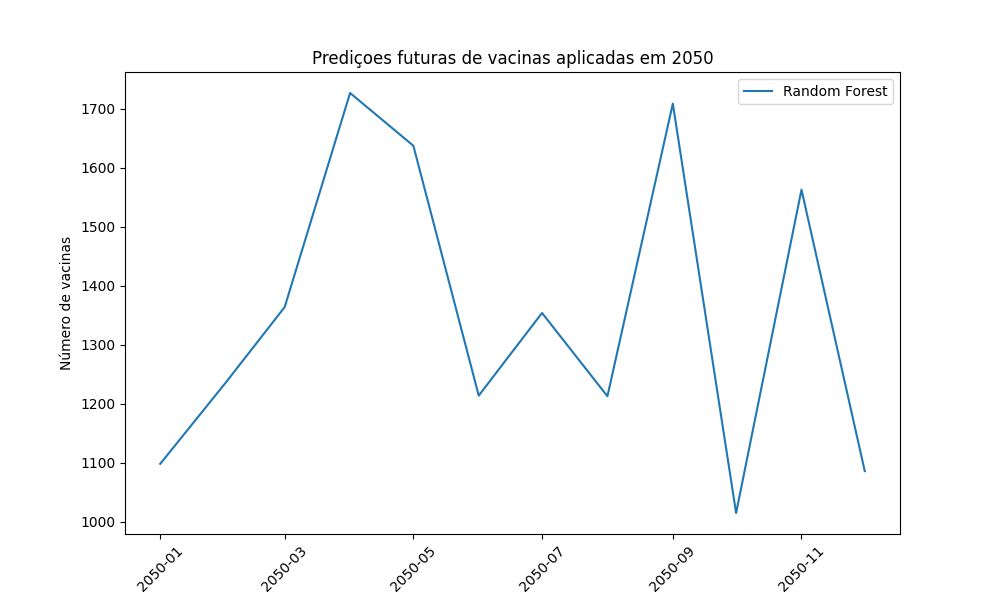
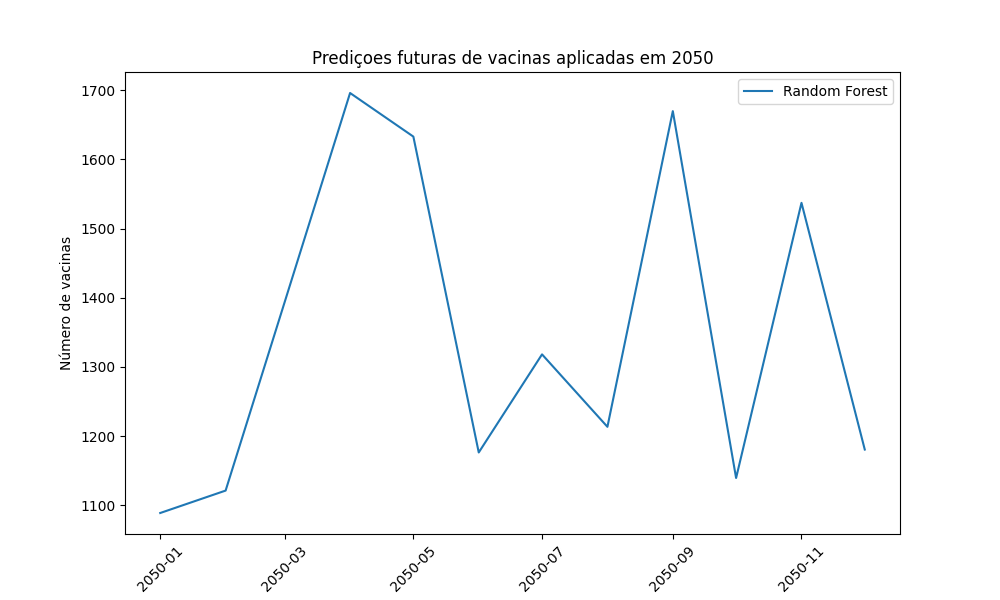
deactivated gridsearchCV

diff --git a/predicao/views.py b/predicao/views.py
@@ -9,7 +9,8 @@ from .forms import ForquilhinhaPassadoForm, ForquilhinhaFuturoForm
 from sklearn.ensemble import RandomForestRegressor
 from sklearn.model_selection import train_test_split, GridSearchCV
 from sklearn.preprocessing import StandardScaler
-import logging
+
+"""import logging
 
 logger = logging.getLogger(__name__)
 logger.setLevel(logging.DEBUG)
@@ -17,7 +18,7 @@ handler = logging.FileHandler(os.path.join(settings.BASE_DIR, 'suslog_project/lo
 handler.setLevel(logging.DEBUG)
 formatter = logging.Formatter('%(asctime)s - %(name)s - %(levelname)s - %(message)s')
 handler.setFormatter(formatter)
-logger.addHandler(handler)
+logger.addHandler(handler)"""
 
 matplotlib.use('Agg')
 
@@ -43,7 +44,7 @@ X_train, X_test, y_train, y_test = train_test_split(X_scaled, y, test_size=0.2, 
 rf = RandomForestRegressor(random_state=42)
 
 # Usando GridSearchCV para testar os melhores parâmetros automaticamente
-param_grid = {
+"""param_grid = {
     'n_estimators': [100, 500, 1000],
     'max_depth': [10, 30, 50],
     'max_features': ['sqrt', 10],
@@ -63,7 +64,9 @@ except Exception as e:
 
 # Treinando RF com os melhores parametros
 best_rf = grid_search.best_estimator_
-best_rf.fit(X_train, y_train)
+best_rf.fit(X_train, y_train)"""
+
+rf.fit(X_train, y_train)
 
 def compare_year(request):
     form = ForquilhinhaPassadoForm(request.POST or None)
@@ -75,7 +78,7 @@ def compare_year(request):
         data_year = df[df['Ano'] == year_to_compare].copy()
         if not data_year.empty:
             data_year_scaled = scaler.transform(data_year[['Mes', 'Ano', 'Trimestre']])
-            predictions_year = best_rf.predict(data_year_scaled)
+            predictions_year = rf.predict(data_year_scaled)
             data_year['Vacinas previstas'] = predictions_year
             data_year.reset_index(drop=True, inplace=True)
             data_year.index += 1
@@ -119,7 +122,7 @@ def future_predictions(request):
         year = form.cleaned_data['year']
         future_df = generate_future_dates(f'{year}-01-01', f'{year}-12-01')
         future_features = scaler.transform(future_df[['Mes', 'Ano', 'Trimestre']])
-        future_predictions_rf = best_rf.predict(future_features)
+        future_predictions_rf = rf.predict(future_features)
         future_df['Vacinas_RF'] = future_predictions_rf
         has_data = True
 
